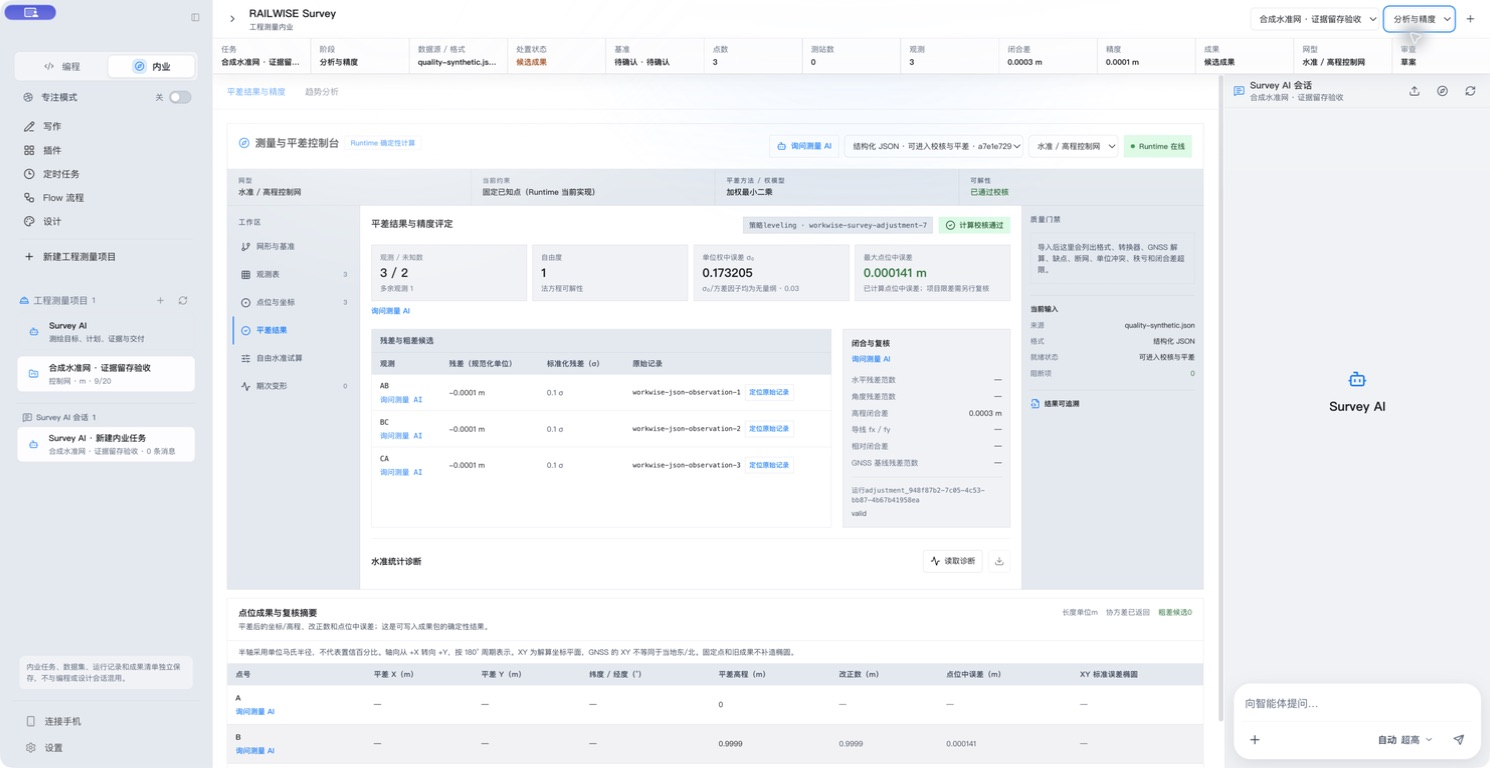
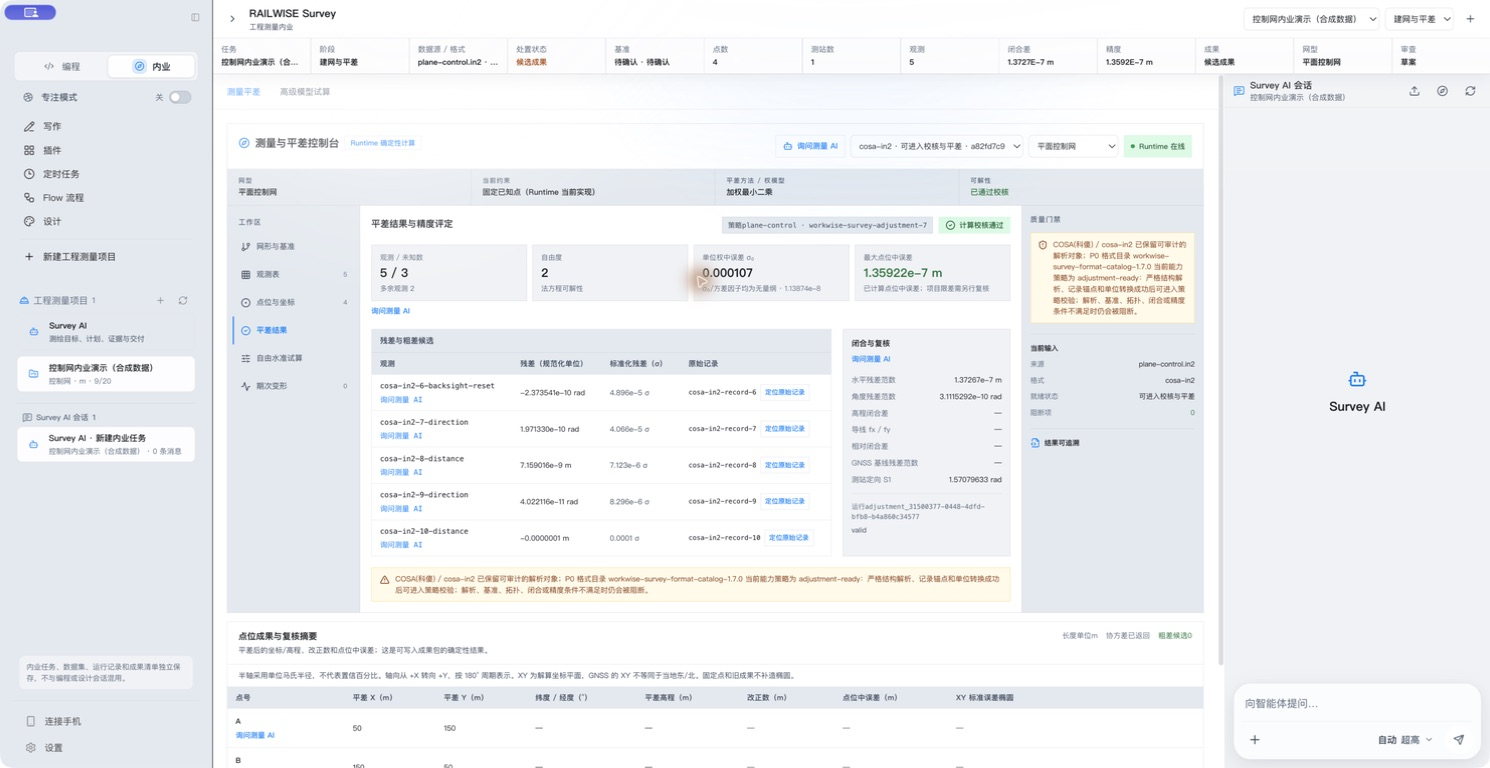
docs(survey): refresh candidate preview with 281 packaged screenshots

diff --git a/website/products/workwise/index.php b/website/products/workwise/index.php
@@ -26,8 +26,8 @@ $workwiseDownloads = array_map(static function (array $item): array {
   ];
 }, is_array($workwiseManifest['platforms'] ?? null) ? $workwiseManifest['platforms'] : []);
 $workwiseShots = [
-  ['src' => '/products/screenshots/workwise/04-survey-candidate-zh-light.jpg', 'title' => '工程测量内业 · 中文浅色', 'desc' => '候选包实拍，使用合成演示数据；展示工程任务、当前阶段与持续 AI 会话。'],
-  ['src' => '/products/screenshots/workwise/05-survey-candidate-delivery.jpg', 'title' => '候选成果与审查', 'desc' => 'DOCX、PDF、XLSX 与文件哈希集中展示，草稿与已审查成果明确区分。'],
+  ['src' => '/products/screenshots/workwise/04-survey-candidate-zh-light.jpg', 'title' => '工程测量内业 · 中文浅色', 'desc' => '281dc87 候选包实拍：4 点、1 测站、5 观测的合成控制网，查看平差结果、残差与精度。'],
+  ['src' => '/products/screenshots/workwise/05-survey-candidate-delivery.jpg', 'title' => '成果中心', 'desc' => '同一合成控制网的 DOCX、PDF、XLSX 与文件哈希，保留运行来源和待审查状态。'],
   ['src' => '/products/screenshots/workwise/06-candidate-model-settings.jpg', 'title' => '模型设置', 'desc' => 'DeepSeek V4.1-Flash 使用 deepseek-flash；服务地址与凭据由用户配置。'],
 ];
 $workwiseWriteShots = $workwiseShots;
@@ -35,14 +35,14 @@ $workwiseCapabilities = [
   ['title' => '导入与预检', 'desc' => '先检查内容签名、记录结构、单位与来源。需要转换器、GNSS 后处理或仅可归档的资料会给出明确处置，不能直接开始平差。', 'icon' => 'fas fa-file-import', 'tone' => 'workwise-local'],
   ['title' => '建网与确定性平差', 'desc' => '选择工程任务，确认控制点和基准。P0 验收聚焦 GSI 水准观测与 COSA IN2 控制网，数值由本地 Runtime 生成。', 'icon' => 'fas fa-compass', 'tone' => 'workwise-code'],
   ['title' => '分析与精度', 'desc' => '集中查看闭合差、残差、点位精度、观测数与冗余度。异常记录保留来源定位，供工程人员复核。', 'icon' => 'fas fa-chart-line', 'tone' => 'workwise-session'],
-  ['title' => '成果与审查', 'desc' => '生成 DOCX、PDF 和 XLSX，记录文件哈希与运行来源。当前清单为待审查草稿；复核、批准和数字签名流程仍在建设。', 'icon' => 'fas fa-file-export', 'tone' => 'workwise-write'],
+  ['title' => '成果与审查', 'desc' => '生成 DOCX、PDF 和 XLSX，将材料保全、首轮抽样与单位评分关联，分别查看资料缺项和已声明不合格结果。成果保持待审查，交由工程人员复核。', 'icon' => 'fas fa-file-export', 'tone' => 'workwise-write'],
   ['title' => '持续 AI 协作', 'desc' => 'DeepSeek V4.1-Flash（deepseek-flash）协助理解、解释与规划。计算或导出计划需确认；模型不可用时可继续手动确定性操作。', 'icon' => 'fas fa-comments', 'tone' => 'workwise-skills'],
   ['title' => '平台辅助工具', 'desc' => '编程与内业是主入口；写作、设计、Flow、插件及定时任务提供辅助。Survey 与这些工具的深度专业联动属于后续计划。', 'icon' => 'fas fa-layer-group', 'tone' => 'workwise-plugin'],
 ];
 $workwiseStatus = [
   ['label' => '正式下载', 'title' => 'WorkWise 0.5.0', 'text' => '下方下载沿用已发布版本；本页新命名与四阶段界面为候选预览。', 'icon' => 'fas fa-download'],
-  ['label' => '候选验收', 'title' => 'RAILWISE Survey 核心内业链', 'text' => '本页截图来自 ba38649 已安装候选，均为中文浅色与合成演示数据。该包完成签名公证、真实私有升级、逐项证据留存、篡改拒绝、历史恢复及重启复验；后续功能、专业复核与用户确认按台账分别记录。', 'icon' => 'fas fa-flask'],
-  ['label' => '后续计划', 'title' => '专业可信度与生态扩展', 'text' => '后续源码已加入限定模型试算、声明检查评分及材料—抽样—评分关联评估，精确安装包验收单独记录。完整规范评定、人员签认、外业采集和点云仍在计划中。', 'icon' => 'fas fa-route'],
+  ['label' => '候选验收', 'title' => '材料、抽样与评分关联', 'text' => '本页为 281dc87 已安装候选的中文浅色实拍。两单位合成案例已检查完整、缺失和否决并存结果，以及导出、重启恢复和来源变化；整体验收仍为部分完成。', 'icon' => 'fas fa-flask'],
+  ['label' => '后续计划', 'title' => '专业可信度与生态扩展', 'text' => '完整界面覆盖、真实模型回合、专业复核与用户确认继续推进。完整规范评定、人员签认、外业采集和点云仍在计划中。', 'icon' => 'fas fa-route'],
 ];
 $workwiseAdvantages = [
   ['title' => '一个任务贯穿四个阶段', 'desc' => '原始文件、网络、运行与成果沿用同一任务上下文，减少在分散页面中寻找当前工作。', 'icon' => 'fas fa-compass'],
@@ -171,7 +171,7 @@ require_once __DIR__ . '/../../includes/header.php';
     <div class="pd-section-head">
       <div class="pd-eyebrow dark">DEEPSEEK V4.1-FLASH NATIVE</div>
       <h2>DeepSeek V4.1-Flash，协助理解与规划</h2>
-      <p class="pd-section-sub">默认模型 ID <code>deepseek-flash</code> 贯穿 Agent、Write 和 Survey。运行时已适配思考、工具调用和结构化附件；实际服务能力与额度以账户和服务端为准。</p>
+      <p class="pd-section-sub">默认模型 ID <code>deepseek-flash</code> 贯穿 Agent、Write 和 Survey。运行时已适配思考、工具调用和结构化附件；真实网络回合尚未验收。后续 <code>auto</code> 路由修复不在本页 281dc87 截图对应包内。</p>
     </div>
     <div class="pd-caps-grid">
       <article class="pd-cap">
@@ -276,6 +276,7 @@ require_once __DIR__ . '/../../includes/header.php';
         </div>
       <?php endforeach; ?>
     </div>
+    <p><a href="https://github.com/wangjiawei508/WorkWise/blob/codex/railwise-survey-convergence/docs/qa/evidence/railwise-convergence-281dc8767250/README.md" target="_blank" rel="noopener" class="cli-inline-link">查看候选实机验收记录 <i class="fas fa-arrow-up-right-from-square"></i></a></p>
   </div>
 </section>
 

diff --git a/README.en.md b/README.en.md
@@ -40,13 +40,13 @@ The current source also adds a separate generalized-w / VCE / Huber / statistica
 
 Later source adds declared two-epoch reference comparison, static independent-observation append, and declared inspection scoring. Reference trials retain explicit GLS/equal choices and full covariance. Static append records each QR update and checks a separate full batch fit. Scoring retains exact fractions, missing items and vetoes under a bounded, source-checked subset of GB/T 24356-2023. These controls do not certify stable points, change formal weights or approve deliverables. See the [implementation and acceptance ledger](./docs/qa/RAILWISE_SURVEY_CONVERGENCE_STATUS.md).
 
-Declared quality linkage assessment now connects a draft deliverable, retained materials, a complete first-round sample and explicit per-unit scoring records. Coverage, missing evidence and vetoes remain separate, and failed source revalidation clears the previous conclusion. The scope is at most eight complete sampled units; it does not authenticate materials, implement rectification/resampling, sign or approve deliverables. See the [integration and independent review](./docs/qa/evidence/railwise-quality-assessment/README.md). Packaged acceptance for this increment is tracked separately.
+Declared quality linkage assessment connects a draft deliverable, retained materials, a complete first-round sample and explicit per-unit scores. Coverage, missing evidence and vetoes remain separate; changed sources clear the previous conclusion. Installed candidate `281dc87` exercised complete, missing and veto-with-missing cases using two synthetic units, plus export, restart recovery and source-change checks. The supported scope is at most eight complete sampled units; it does not authenticate materials, implement rectification/resampling, sign or approve deliverables. See the [installed-package evidence](./docs/qa/evidence/railwise-convergence-281dc8767250/README.md) and [implementation scope](./docs/qa/evidence/railwise-quality-assessment/README.md).
 
 See the [engineering survey workbench overview](./docs/ENGINEERING_SURVEY_WORKBENCH_OVERVIEW.zh-CN.md) and [survey format acceptance matrix](./docs/qa/WORKWISE_0.5.0_SURVEY_FORMAT_ACCEPTANCE_MATRIX.md) for scope and evidence.
 
 ## Candidate UI preview
 
-These Chinese light-theme screenshots show installed candidate `ba38649` with a synthetic three-point leveling network. Each image's commit and hash are in the [screenshot manifest](./website/products/screenshots/workwise/candidate-screenshots.json). They do not replace the released 0.5.0 installers. This package passed signing/notarization, a [real private updater round trip and installed quality-evidence workspace checks](./docs/qa/evidence/railwise-convergence-ba3864917e12/README.md), including individual checks, tamper rejection, valid-history recovery, the same record after restart, and a 960×640 window. Byte retention is not quality scoring, standards conformity or a human signature. Real-model acceptance, professional confirmation and remaining plan items are recorded in the ledger below.
+These Chinese light-theme screenshots of installed candidate `281dc87` show adjustment results, deliverables and model settings for a synthetic plane-control network: four points, one station and five observations. Original image hashes and package identity are in the [screenshot manifest](./website/products/screenshots/workwise/candidate-screenshots.json). This package passed signing/notarization and a real private updater round trip, with [bounded installed quality-linkage checks](./docs/qa/evidence/railwise-convergence-281dc8767250/README.md). Overall acceptance remains partial: live-model responses, complete UI coverage, professional review and personal user confirmation remain outstanding. The released 0.5.0 installers are unchanged.
 
 ![RAILWISE Survey candidate with synthetic data](./website/products/screenshots/workwise/04-survey-candidate-zh-light.jpg)
 
@@ -90,6 +90,8 @@ Attach PDF, DOCX, XLSX, PPTX, TXT, Markdown, CSV, PNG, JPEG, or WebP files direc
 Document content is always treated as untrusted reference material. It cannot override system instructions or grant tool permission. Encrypted, damaged, disguised, or oversized files are rejected with an explicit reason. MarkItDown is bundled for local parsing, while MinerU remains an optional local high-accuracy component for difficult scanned PDFs.
 
 The desktop and Runtime default to DeepSeek V4.1-Flash using `deepseek-flash`, while preserving saved explicit selections. The model catalog specifies 1M context and up to 384K output, with adapters for reasoning, tools, JSON, Responses API and structured image parts. Actual availability and limits depend on the provider and account; local protocol tests do not establish successful live-service acceptance. Text-only providers use the configured loopback visual-evidence analyzer and report failures explicitly.
+
+Candidate `281dc87` includes this default model. The subsequent `auto` routing fix belongs to newer source and is absent from the pictured package. Successful live-model responses and official search remain unverified.
 
 ### Design workbench
 
